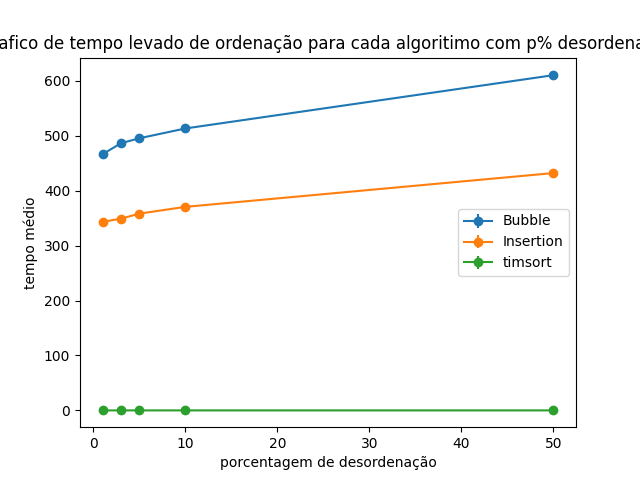
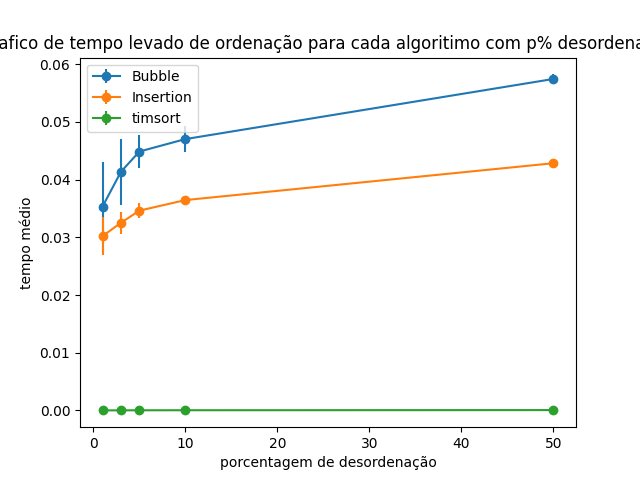
exp1exp2

diff --git a/main.py b/main.py
@@ -11,8 +11,8 @@ import math
 
 
 
-n = 1000
-V =[random.randint(0,9999) for i in range(n)]
+#n = 1000
+#V =[random.randint(0,9999) for i in range(n)]
 
 def mediaT(T, n):
         """     
@@ -204,6 +204,7 @@ def timeMe(func,V,n,m,p):
 
 
 #experimento 1
+''''
 def callalgorithims(V,n,p):
     print("porcentagem "+str(p))
     vsorted = list(V)
@@ -273,7 +274,7 @@ n = 100000
 print("TA NOS CEM MIL")
 V = [random.randint(0,9999) for i in range(n)]
 callalgorithims(V,n,0)
-
+'''
 
 titulo = "grafico de tempo levado de ordenação para cada algoritimo"
 xtitulo = "tamanhos"
@@ -298,11 +299,11 @@ def GraficaSortings(mpontos, mediaMCMPi, desvioMCMPi):
 
 
 
-listamedias = [seleciotnmedia,bublemedia,countingmedia,insertionmedia,sortpythonmedia ]
-listadesviopadrao = [selectionvariancia,bublevarianciamedia,countingvariancia,insertionvariancia,sortpythonvariancia]
-algoritmos = ['Selection', 'Bubble', 'Counting', 'Insertion','timsort']
+#listamedias = [seleciotnmedia,bublemedia,countingmedia,insertionmedia,sortpythonmedia ]
+#listadesviopadrao = [selectionvariancia,bublevarianciamedia,countingvariancia,insertionvariancia,sortpythonvariancia]
+#lgoritmos = ['Selection', 'Bubble', 'Counting', 'Insertion','timsort']
 
-GraficaSortings([[1000,5000,10000,50000,100000],[1000,5000,10000,50000,100000],[1000,5000,10000,50000,100000],[1000,5000,10000,50000,100000],[1000,5000,10000,50000,100000]], listamedias, listadesviopadrao,)
+#GraficaSortings([[1000,5000,10000,50000,100000],[1000,5000,10000,50000,100000],[1000,5000,10000,50000,100000],[1000,5000,10000,50000,100000],[1000,5000,10000,50000,100000]], listamedias, listadesviopadrao,)
 
 
 
@@ -312,7 +313,7 @@ GraficaSortings([[1000,5000,10000,50000,100000],[1000,5000,10000,50000,100000],[
 
 
 #experimento 2
-'''
+
 sortpythonmedia = []
 sortpythonvariancia = []
 insertionmedia = []
@@ -363,7 +364,7 @@ listadesviopadrao = [bublevarianciamedia,insertionvariancia,sortpythonvariancia]
 print("desivo padrao"+str(listadesviopadrao))
 algoritmos = [ 'Bubble', 'Insertion','timsort']
 GraficaSortings([[1,3,5,10,50],[1,3,5,10,50],[1,3,5,10,50]], listamedias, listadesviopadrao,)
-'''
+
 
 
 
